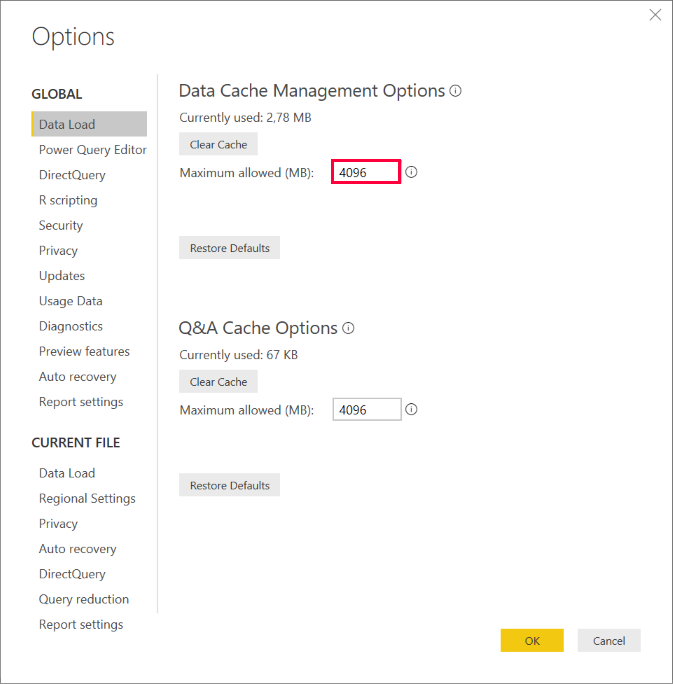
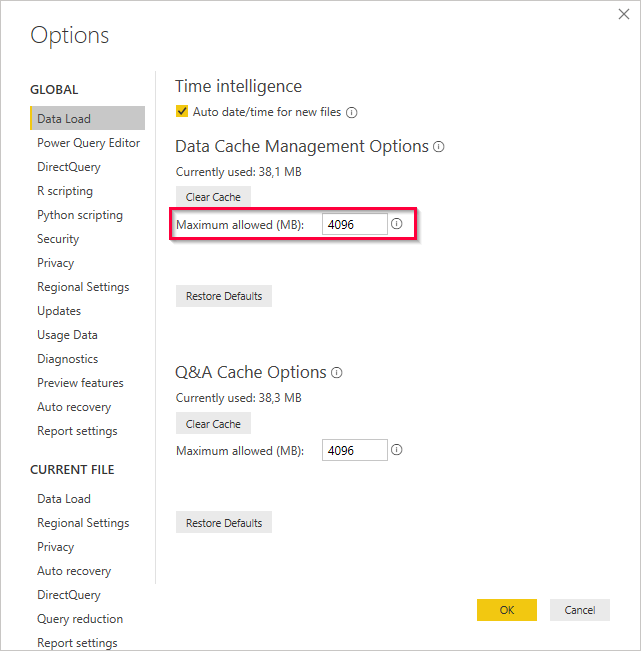
update power bi

diff --git a/content/_de/xtract-universal/destinationen/Power-BI-Connector.md b/content/_de/xtract-universal/destinationen/Power-BI-Connector.md
@@ -130,7 +130,7 @@ Verwenden Sie entweder das Power Query M-script **oder** den Power BI Custom Con
 7. Klicken Sie die Schaltfläche **{Close & Apply]**.
 8. Wenn Sie aufgefordert werden eine der folgenden Authentifizierungsmethoden (*Anonymous*, *Basic* , oder *Windows*) auszuwählen, <br> befolgen Sie die Handlungsanweisungen aus dem Abschnitt [Singe Sign On und SAP-Authentifizierung](Power-BI-Connector#single-sign-on-und-sap-authentifizierung).
 
-## Power BI service
+## Power BI Service
 
 ### Voraussetzungen
 Die Anbindung des Power BI Service erfordert folgende Komponenten:
@@ -199,7 +199,7 @@ Tragen Sie \<domain>\\\<Windows AD user> ins Feld *user* und Ihr Windows-Passwor
 Xtract Universal und die *Power BI Connector* Destination unterstützen Single Sign On (SSO) zu SAP. Wenn SSO korrekt konfiguriert ist, werden die Windows-Anmeldedaten des Power BI-Benutzers den SAP-Anmeldedaten zugeordnet (gemapped). Auf diese Weise wird das SAP-Berechtigungskonzept unterstützt und dem Benutzer werden nur die Daten angezeigt, die seiner SAP-Berechtigung entsprechen.
 ![XU_PBI_EN_SSO](/img/content/XU_PBI_EN_SSO.png){:class="img-responsive"}
 
-## XU Custom Parameter in Power BI
+## Parametrisierung
 
 Custom Parameter (benutzerdefinierte Parameter), die in Xtract Universal für eine Extraktion angelegt wurden, werden in Power BI Desktop als eingabebereit angezeigt.
 Wenn Sie den Power BI Custom Connector verwenden, können die in Xtract Universal definierten Custom Parameter zum Zeitpunkt einer Extraktion in Power BI Desktop befüllt werden.
@@ -237,12 +237,15 @@ Power BI Parameter:
 ![XU-Custom-Parameter-angezeigt](/img/content/XU_PBI_XU_Parameters_5.png){:class="img-responsive"}
 
 
-## Fehlerbehebung
+## Power BI Optionen und Einstellungen
 
-Extraktionen von Xtract Universal, die große Datenmengen extrahieren, können zahlreiche Aufrufe von Power BI zu Xtract Universal verursachen. 
-Dieser Vorgang führt dazu, dass mehrfache Einträge für die gleiche Extraktion im Extraktions-Log von Xtract Universal erscheinen.
+Nehmen Sie folgende Einstellungen in Power BI vor:
 
-Um diese Verhaltensweise zu vermeiden,  erhöhen Sie die Größe des Zwischenspeichers (Cache).
+1. Navigieren Sie zu **File > Options and settings > Options**, um die Optionen zu öffnen.
+2. Aktivieren Sie im Tab *Security* die Option **(Not recommended) Allow any extension to load without validation or warning**.<br>
+![Power BI cache](/img/content/XU_PBI_PBI_Security.png){:class="img-responsive"}
+3. Optional: Erhöhen Sie die Größe des Zwischenspeichers (Cache) im Tab *Load Sata*, um zu vermeiden dass bei der Extraktion großer Datenmengen Power BI mehrfach Aufrufe an Xtract Universal sendet. 
+Das mehrfache Aufrufen führen dazu, dass mehrere Einträge für die gleiche Extraktion im Extraktions-Log von Xtract Universal erscheinen.<br>
 ![Power BI cache](/img/content/XU_PBI_PBI_Cache.png){:class="img-responsive"}
 
 

diff --git a/content/_en/xtract-universal/destinations/Power-BI-Connector.md b/content/_en/xtract-universal/destinations/Power-BI-Connector.md
@@ -201,7 +201,7 @@ Xtract Universal and the *Power BI Connector* destination support single sign on
 
 ![XU_PBI_EN_SSO](/img/content/XU_PBI_EN_SSO.png){:class="img-responsive"}
 
-## XU Custom Parameters in Power BI
+## Parameterizing
 
 The Power BI Custom Connector exposes Xtract Universal custom parameters in Power BI Desktop.
 Using the Power BI Custom Connector Xtract Universal custom parameters can be populated with values when executing an extraction from Power BI Desktop.
@@ -238,11 +238,15 @@ Replacement with Power BI parameters:
 
 ![XU-Custom-Parameter-exposed](/img/content/XU_PBI_XU_Parameters_5.png){:class="img-responsive"}
 
-## Troubleshooting
+## Power BI Options and Settings
 
-Xtract Universal extractions that return a large data volume can lead to multiple calls from Power BI to Xtract Universal. This results in multiple entries for the same extraction in the Xtract Universal extraction log.
+Set the following settings in Power BI:
 
-To prevent this kind of behaviour, please increase the Power BI cache.
+1. Navigate to **File > Options and settings > Options** to open the option menu.
+2. Check the box **(Not Recommended) Allow any extension to load without validation or warning** in the tab *Security*.<br>
+![Power BI cache](/img/content/XU_PBI_PBI_Security.png){:class="img-responsive"}
+3. Optional: Increase the Power BI cache in the tab *Load Data* to prevent multiple calls from Power BI to Xtract Universal when extracting large data volumes.
+Multiple calls to Xtract Universal result in in multiple entries for the same extraction in the Xtract Universal extraction log.<br>
 ![Power BI cache](/img/content/XU_PBI_PBI_Cache.png){:class="img-responsive"}
 
 ****
